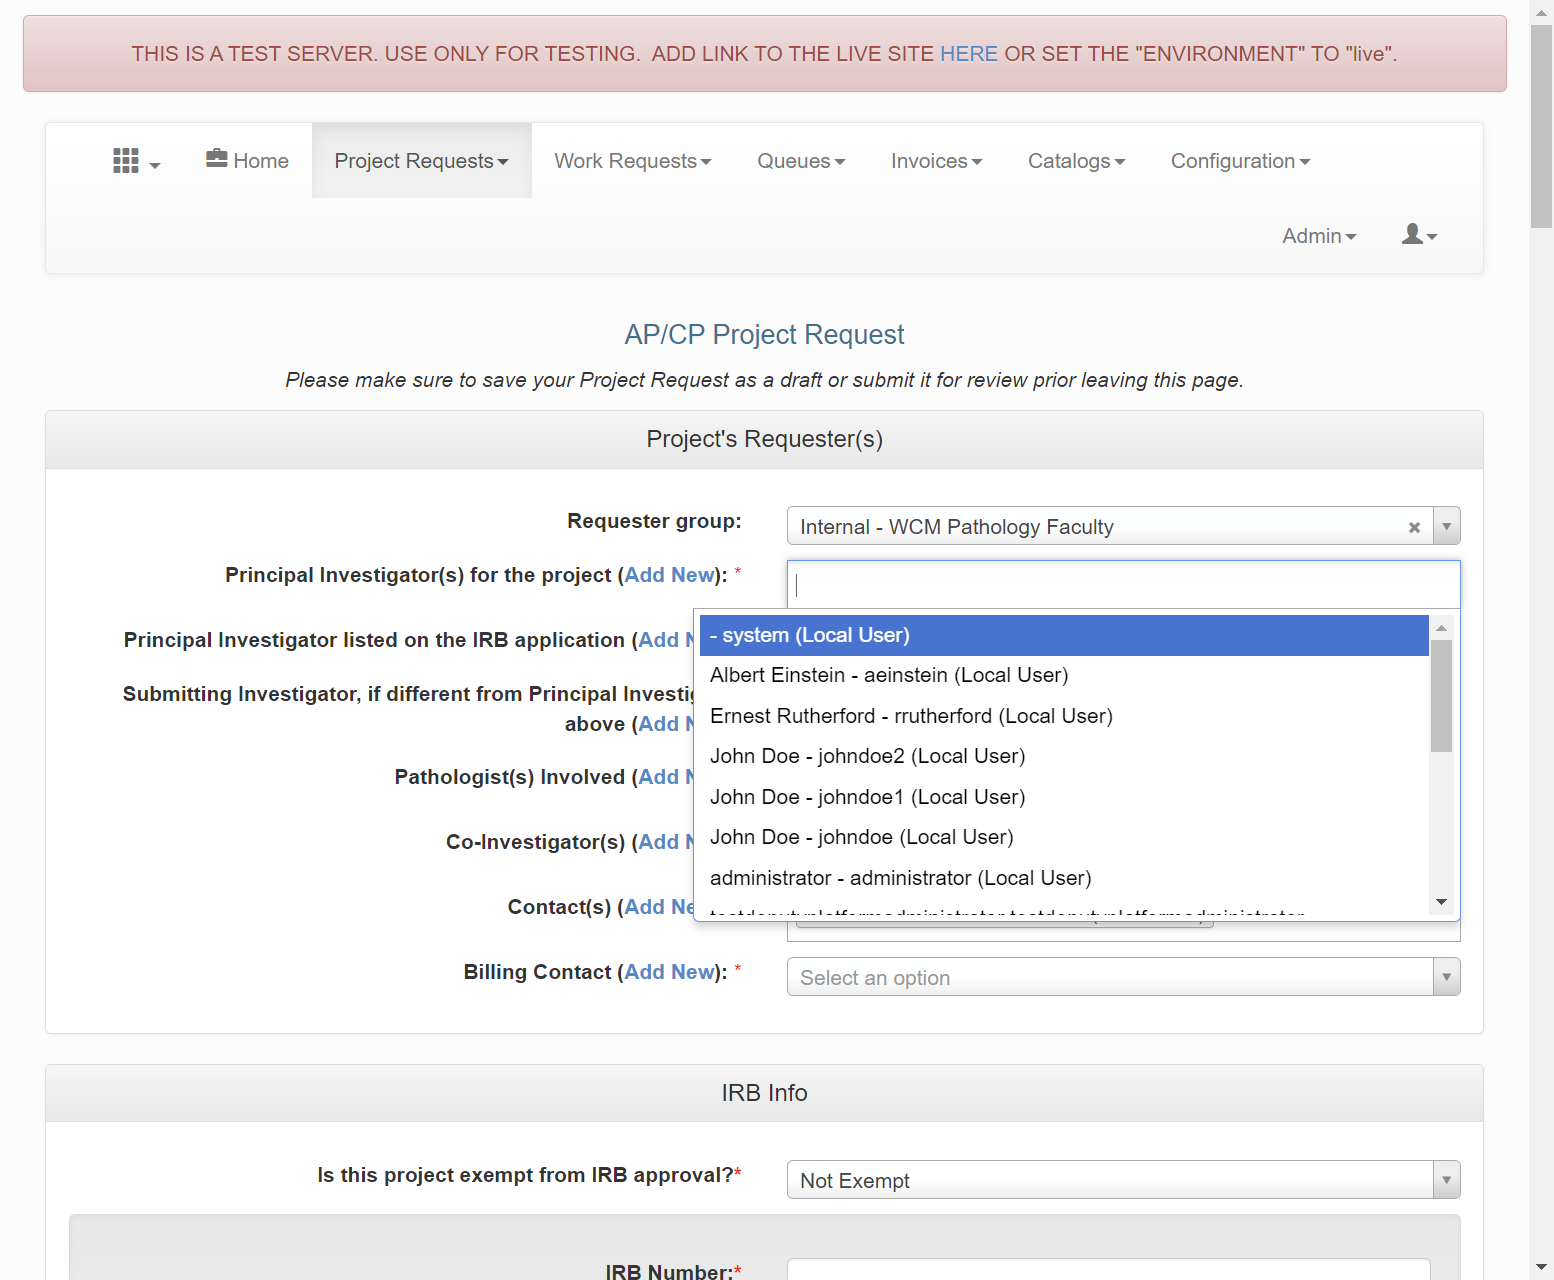
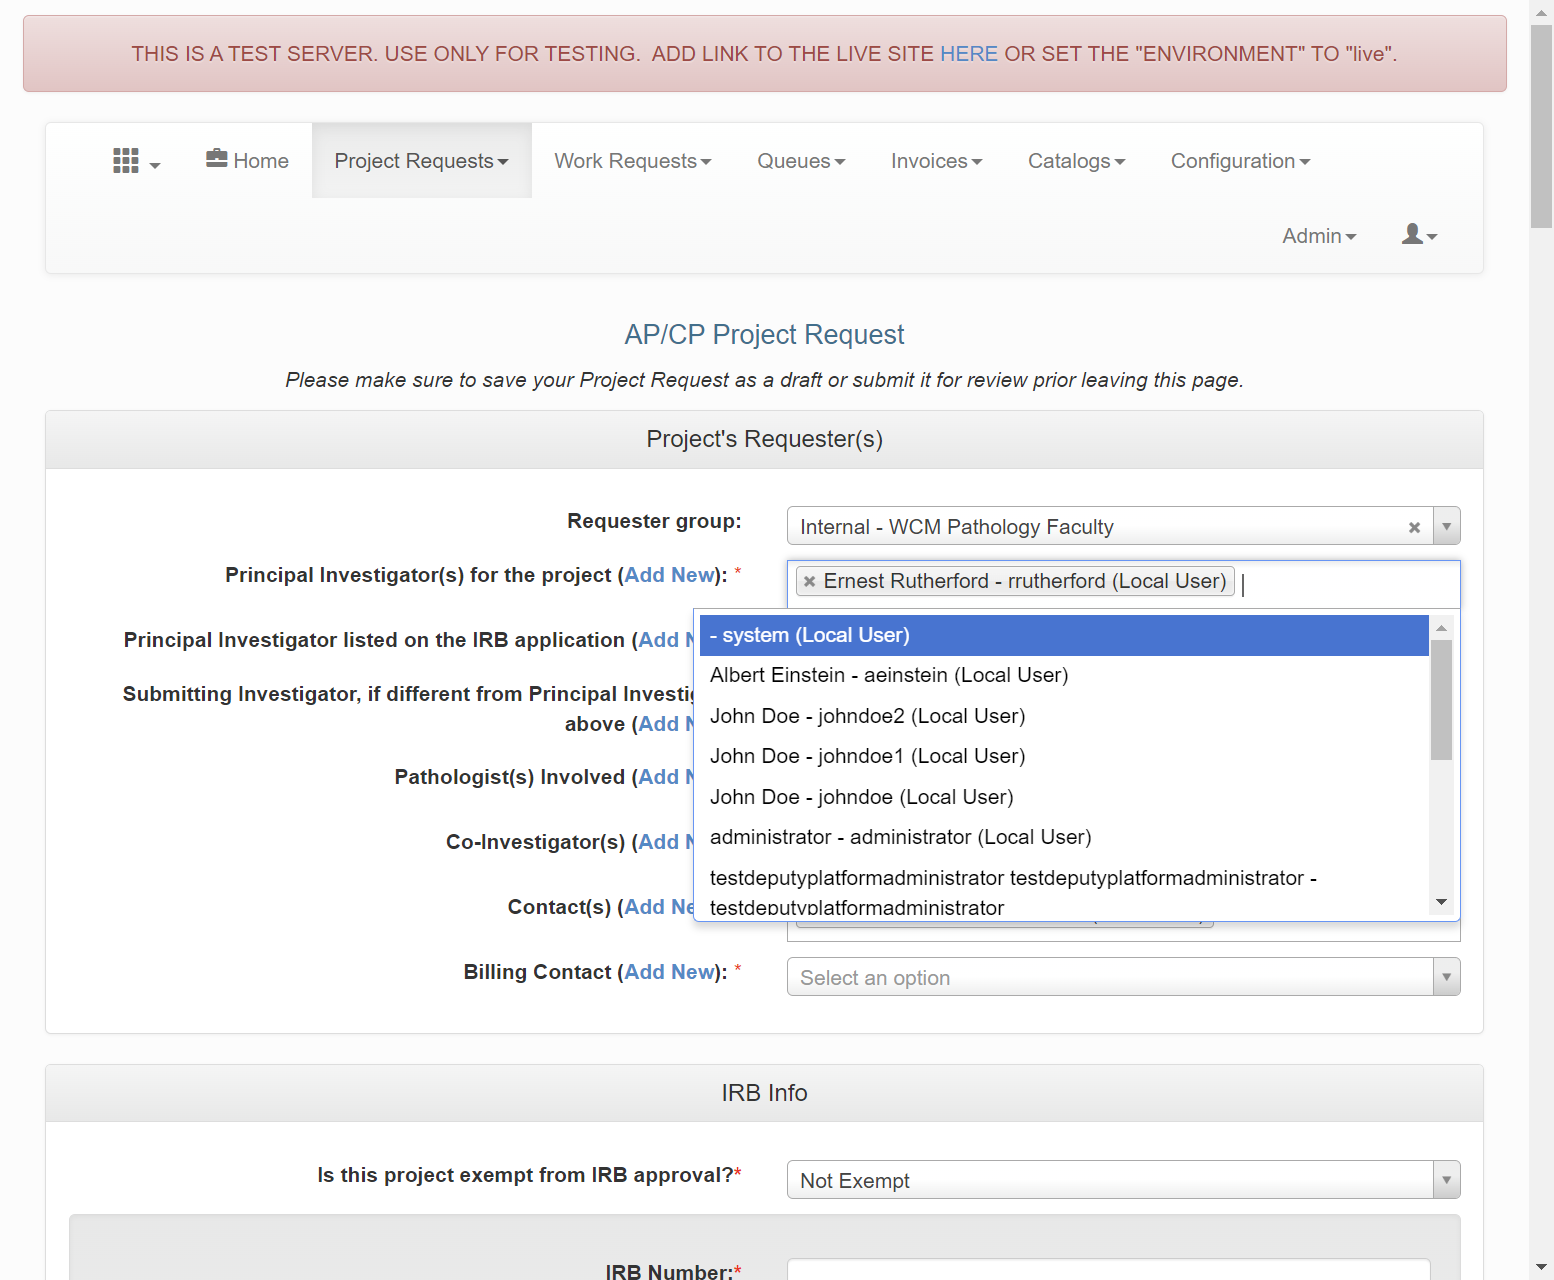
working on trp project

diff --git a/orderflex/src/App/DemoDbBundle/Util/DemoDbUtil.php b/orderflex/src/App/DemoDbBundle/Util/DemoDbUtil.php
@@ -157,7 +157,8 @@ class DemoDbUtil {
             'displayName' => 'John Doe',
             'email' => 'cinava@yahoo.com',
             'password' => 'pass',
-            'roles' => array('ROLE_USERDIRECTORY_OBSERVER')
+            'roles' => array('ROLE_USERDIRECTORY_OBSERVER'),
+            'userId' => 12
         );
         $users[] = array(
             'userid' => 'aeinstein',
@@ -166,7 +167,8 @@ class DemoDbUtil {
             'displayName' => 'Albert Einstein',
             'email' => 'cinava@yahoo.com',
             'password' => 'pass',
-            'roles' => array('ROLE_USERDIRECTORY_OBSERVER')
+            'roles' => array('ROLE_USERDIRECTORY_OBSERVER'),
+            'userId' => 15
         );
         $users[] = array(
             'userid' => 'rrutherford',
@@ -175,7 +177,8 @@ class DemoDbUtil {
             'displayName' => 'Ernest Rutherford',
             'email' => 'cinava@yahoo.com',
             'password' => 'pass',
-            'roles' => array('ROLE_USERDIRECTORY_OBSERVER')
+            'roles' => array('ROLE_USERDIRECTORY_OBSERVER'),
+            'userId' => 16
         );
 
         return $users;
@@ -188,8 +191,9 @@ class DemoDbUtil {
         //$client = $this->createUser($client,'aeinstein','Albert','Einstein','Albert Einstein','pass','cinava@yahoo.com',array('ROLE_USERDIRECTORY_OBSERVER'));
         //$client = $this->createUser($client,'rrutherford','Ernest','Rutherford','Ernest Rutherford','pass','cinava@yahoo.com',array('ROLE_USERDIRECTORY_OBSERVER'));
 
+        //$userIds = array();
         foreach( $this->getUsers() as $userArr ) {
-            $client = $this->createUser(
+            $userId = $this->createUser(
                 $client,
                 $userArr['userid'],
                 $userArr['firstName'],
@@ -199,10 +203,12 @@ class DemoDbUtil {
                 $userArr['email'],
                 $userArr['roles']
             );
+            $userArr['userId'] = $userId;
+            //$userIds[] = $userId;
         }
 
 
-        return $client;
+        return $userArr;
     }
     public function createUser($client,$userid,$firstName,$lastName,$displayName,$pass,$email,$roles) {
 
@@ -241,21 +247,35 @@ class DemoDbUtil {
 
         $client->submit($form);
 
+//        $uri = $client->getCurrentURL(); //$client->getResponse()->headers->get('location');
+//        echo "uri=$uri <br>";
+//        //get id from url 'https://view.online/c/demo-institution/demo-department/directory/user/14'
+//        $uriArr = explode('/',$uri);
+//        $userId = end($uriArr);
+        $userId = $this->getCurrentUrlId($client);
+
         $client->takeScreenshot('test_createuser-'.$userid.'.png');
+        $client->takeScreenshot('test_createuser-id-'.$userId.'.png');
 
-        return $client;
+        return $userId;
     }
 
-    public function newTrpProjects( $client ) {
-        $users = $this->getUsers();
+    public function newTrpProjects( $client, $users ) {
+        //$users = $this->getUsers();
         $this->newTrpProject($client,$users,$this->baseUrl.'/translational-research/project/select-new-project-type');
+        foreach( $this->getTrpProjects() as $trpProjectArr ) {
+            $this->newTrpProject($client,$trpProjectArr,$users,$this->baseUrl.'/translational-research/project/select-new-project-type');
+        }
     }
-    public function newTrpProject( $client, $users, $newProjectUrl ) {
+    public function newTrpProject( $client, $trpProjects, $users, $newProjectUrl ) {
         //$newProjectUrl = 'https://view.online/c/demo-institution/demo-department/translational-research/project/select-new-project-type';
         $crawler = $client->request('GET', $newProjectUrl);
 
         $link = $crawler->selectLink('AP/CP Project Request')->link();
         $client->click($link);
+
+        //$uri = $client->getCurrentURL(); //$client->getResponse()->headers->get('location');
+        //echo "uri=$uri <br>";
 
         //$client->executeScript("$('#s2id_oleg_translationalresearchbundle_project_principalInvestigators').select2('val','.".$userid."')");
 
@@ -263,9 +283,10 @@ class DemoDbUtil {
         $form = $crawler->filter('#oleg_translationalresearchbundle_project_submitIrbReview')->form();
 
         //get userStr for select2 field: 'Ernest Rutherford - rrutherford (Local User)'
+        //Set PI
         $piArr = $users[0];
-        $userStr = $piArr['displayName'] . ' - ' . $piArr['userid'] . ' (Local User)';
-        echo "userStr=$userStr <br>";
+        //$userStr = $piArr['displayName'] . ' - ' . $piArr['userid'] . ' (Local User)';
+        //echo "userStr=$userStr <br>";
 
 //        //find user str by $userid
 //        $subjectUser = null;
@@ -294,9 +315,9 @@ class DemoDbUtil {
 
         //$form['#oleg_translationalresearchbundle_project[principalInvestigators][]'] = '15';
 
-        //$client->executeScript("$('#s2id_oleg_translationalresearchbundle_project_principalInvestigators').select2('val','".$userStr."')");
+        $client->executeScript("$('#s2id_oleg_translationalresearchbundle_project_principalInvestigators').select2('val','".$piArr['userId']."')");
         //$client->executeScript("$('#s2id_oleg_translationalresearchbundle_project_principalInvestigators').select2('val','Ernest Rutherford - rrutherford (Local User)')");
-        $client->executeScript("$('#s2id_oleg_translationalresearchbundle_project_principalInvestigators').select2('val','John Doe - johndoe1 (Local User)')");
+        //$client->executeScript("$('#s2id_oleg_translationalresearchbundle_project_principalInvestigators').select2('val','John Doe - johndoe1 (Local User)')");
 
         //$crawler = $client->refreshCrawler();
         //$form = $crawler->filter('#oleg_translationalresearchbundle_project_submitIrbReview')->form();
@@ -305,12 +326,71 @@ class DemoDbUtil {
         //$crawler->filter('#s2id_oleg_translationalresearchbundle_project_principalInvestigators')->text($userid);
         //$client->executeScript("$('#s2id_oleg_translationalresearchbundle_project_principalInvestigators').select2('".$userid."')");
 
+        //Set billingContact 's2id_oleg_translationalresearchbundle_project_billingContact'
+        $billingContactArr = $users[1];
+        $client->executeScript("$('#s2id_oleg_translationalresearchbundle_project_principalInvestigators').select2('val','".$billingContactArr['userId']."')");
+
+        //Set oleg_translationalresearchbundle_project_title
+        $projectTitle = $trpProjects['title'];
+        $form['oleg_translationalresearchbundle_project[title]'] = $trpProjects['title'];;
+
+        //Set description
+        $form['oleg_translationalresearchbundle_project[description]'] = $trpProjects['description'];
+
+        //Set funded
+        $form['oleg_translationalresearchbundle_project[funded]'] = $trpProjects['funded'];
+
+        //Set budget
+        $form['oleg_translationalresearchbundle_project[totalCost]'] = $trpProjects['budget'];
+
         $client->takeScreenshot('test_newTrpProject-'.'1'.'.png');
 
         return $client;
     }
 
+    public function getCurrentUrlId($client) {
+        $uri = $client->getCurrentURL(); //$client->getResponse()->headers->get('location');
+        echo "uri=$uri <br>";
 
+        //get id from url 'https://view.online/c/demo-institution/demo-department/directory/user/14'
+        $uriArr = explode('/',$uri);
+        $id = end($uriArr);
+
+        return $id;
+    }
+
+    public function getTrpProjects() {
+        $projects = array();
+        $projects[] = array(
+            'title' => 'Inflammatory infiltrates in Post-transplant lymphoproliferative disorders (PTLDs)',
+            'description' => 'Post-transplant lymphoproliferative disorders (PTLDs) are Epstein Barr virus (EBV) 
+                associated B cell lymphoid proliferations.  The patients who develop these lesions have 
+                an unpredictable clinical course and outcome with some patients having lesions that regress 
+                following a reduction in immunosuppression and others who despite aggressive theraputic 
+                intervention have progressive disease leading to their demise.',
+            'budget' => '5000',
+            'funded' => 1
+        );
+        $projects[] = array(
+            'title' => 'Characterization of circulating tumor cells in arterial vs. venous blood of patients with Non Small Cell Lung Cancer',
+            'description' => 'This is a phase I study to determine whether the incidence and 
+                quantity of circulating tumor cells is higher in peripheral arterial compared 
+                to venous blood and of the primary tumor. A total of 50 evaluable subjects 
+                will be enrolled from 4 cancer centers with early resectable NSCLC and subjects 
+                with unresectable or metastatic disease will be enrolled.',
+            'budget' => '10000',
+            'funded' => 1
+        );
+        $projects[] = array(
+            'title' => 'Our goal is to assess types of stroma response in fibrogenic myeloid neoplasms, 
+                particularly mastocytosis and CIMF. Altered stroma microenvironment is a common 
+                feature of many tumors.  There is increasing evidence that these stromal changes, 
+                including increased proteases and cytokines, may promote tumor progression.',
+            'budget' => '3000',
+            'funded' => 1
+        );
+        return $projects;
+    }
 }
 
 

diff --git a/orderflex/src/App/UserdirectoryBundle/Controller/DemoDataController.php b/orderflex/src/App/UserdirectoryBundle/Controller/DemoDataController.php
@@ -256,10 +256,12 @@ class DemoDataController extends OrderAbstractController
         $client = $demoDbUtil->loginAction();
         $client->takeScreenshot('test_login.png');
 
-        //$client = $demoDbUtil->createUsers($client);
+        //$users = $demoDbUtil->createUsers($client);
         //$client->takeScreenshot('test_createuser.png');
 
-        $client = $demoDbUtil->newTrpProjects($client);
+        $users = $demoDbUtil->getUsers();
+
+        $demoDbUtil->newTrpProjects($client,$users);
 
         exit('eof panther');
     }
